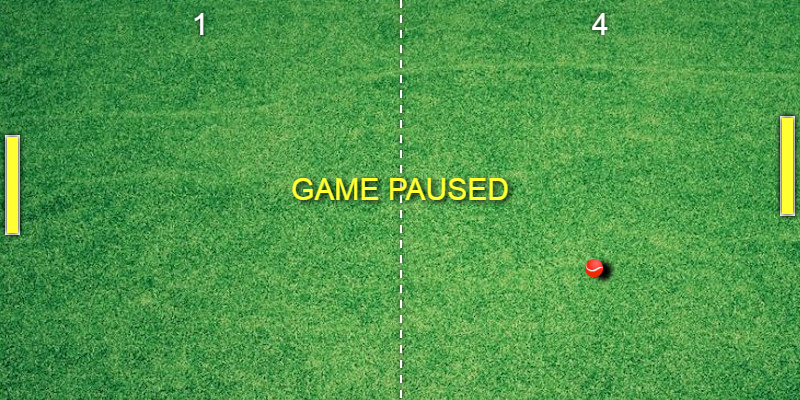
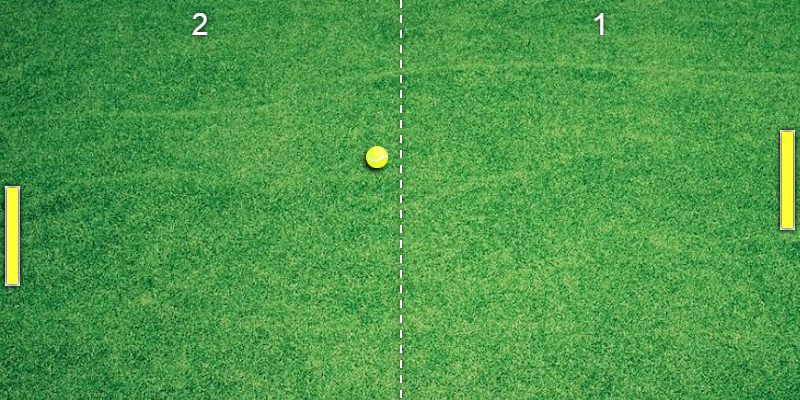
added retro mode

diff --git a/index.html b/index.html
@@ -1,20 +1,17 @@
 <!--
 Arcade Tennis 
-Version 1.3.0
+Version 1.3.1
 Created by Robert Sibek, Bad Mug Games
 
 TODOS:
     - redesign welcome screen. Show logo, add music, maybe some animation (demo play)
     - add difficulty selection
-    - add powerball when player gets score 3:0 which increase speed and temporary change color
-    - replace drawCircle witch the tennis ball image
     - redesign paddles
     - add lights
     - add option to play evening match
     - use custom font
     - let player choose the side
     - allow two player game   
-    - add applause SFX to win screen
     - add screenshot feature (save canvas to image)
     - find/create better texture for playground (more detailed)
 
@@ -24,6 +21,7 @@ KNOWN BUGS:
     
 version 1.0
     - basic game mechanic
+    - original graphic
 version 1.2
     - dynamic ball size 
     - dynamic ball shadow
@@ -38,11 +36,13 @@ varsion 1.3.0
     - pressing Q will quit to menu
     - pressing P will pause the game
     - receive both uppercase and lowercase keypress is now working
-version 1.3.1 - IN PROGRESS
+version 1.3.1 - CURRENT
     - settings menu for sfx & graphic options (performance scaling)
     - about menu shows game info
     - bad mug logo
     - applause sfx on win screen
+    - pressing R switches between modern and retro mode
+    
 -->
 
 <!DOCTYPE html>
@@ -56,7 +56,7 @@ version 1.3.1 - IN PROGRESS
 
 <script>
     // Constants and variables definitions
-    const VERSION = '1.3.0';
+    const VERSION = '1.3.1';
     const CANVAS_HEIGHT = 400;
     const CANVAS_NAME = 'gameCanvas';
     const CANVAS_WIDTH = 800;
@@ -78,6 +78,7 @@ version 1.3.1 - IN PROGRESS
     const CX = CANVAS_WIDTH / 2;
     const CY = CANVAS_HEIGHT / 2;
     const KEY_PAUSE = 112;
+    const KEY_RETRO = 114;
     const KEY_SPACE = 32;
     const KEY_QUIT = 113;
     const KEY_SCREENSHOT = 115;
@@ -130,8 +131,11 @@ version 1.3.1 - IN PROGRESS
     var sfxPaddleHit;
     var sfxWallReflect;
     var sfxMenuSelect;
+    var sfxApplause;
+    var applausePlaying = false;
     var showingWinningScreen = false;
     var menuSfxPlayed = false;
+    var retroMode = true;
 
     window.onload = function() {
         loadSounds();
@@ -161,7 +165,7 @@ version 1.3.1 - IN PROGRESS
         switch (evt.keyCode) {
             case KEY_PAUSE:
             case KEY_PAUSE - 32: // lowercased
-            case KEY_SPACE:         
+            case KEY_SPACE:
                 if (gamePaused) {
                     gamePaused = false;
                 } else {
@@ -175,6 +179,13 @@ version 1.3.1 - IN PROGRESS
                 computerHattrick = 0;
                 playerHattrick = 0;
                 break;
+            case KEY_RETRO:
+            case KEY_RETRO - 32:
+                if (retroMode) {
+                    retroMode = false;
+                } else {
+                    retroMode = true;
+                }
         }
     }
 
@@ -229,9 +240,11 @@ version 1.3.1 - IN PROGRESS
             if (showingWinningScreen) {
                 showWinScreen();
             } else {
-                ctx.drawImage(imgCourt, 0, 0);
+                if (!retroMode) {
+                    ctx.drawImage(imgCourt, 0, 0);
+                }
                 drawNet();
-                if (gfxBallImage) {
+                if (gfxBallImage && !retroMode) {
                     drawBallImage(ballX, ballY, ballRadius, powerBallActive ? imgBallBoosted : imgBall);
                 } else {
                     drawBall(ballX, ballY, ballRadius, Math.PI * 2, powerBallActive ? BALL_BOOST_COLOR : BALL_COLOR);
@@ -244,7 +257,7 @@ version 1.3.1 - IN PROGRESS
                     ctx.shadowColor = 'black';
                     ctx.shadowOffsetX = 3;
                     ctx.shadowOffsetY = 2;
-//                    ctx.fillText('GAME PAUSED', CX, CY);
+                    //                    ctx.fillText('GAME PAUSED', CX, CY);
                     ctx.shadowOffsetX = 0;
                     ctx.shadowOffsetY = 0;
                 }
@@ -278,12 +291,14 @@ version 1.3.1 - IN PROGRESS
                     computerScore++;
                     playerHattrick = 0;
                     computerHattrick++;
-                    if (powerBallActive) {
-                        powerBallActive = false;
-                        computerHattrick = 0;
-                    } else {
-                        if (computerHattrick == 3) {
-                            powerBallActive = true;
+                    if (!retroMode) {
+                        if (powerBallActive) {
+                            powerBallActive = false;
+                            computerHattrick = 0;
+                        } else {
+                            if (computerHattrick == 3) {
+                                powerBallActive = true;
+                            }
                         }
                     }
                     ballReset();
@@ -301,13 +316,14 @@ version 1.3.1 - IN PROGRESS
                     player1Score++;
                     playerHattrick++;
                     computerHattrick = 0;
-
-                    if (powerBallActive) {
-                        powerBallActive = false;
-                        playerHattrick = 0;
-                    } else {
-                        if (playerHattrick == 3) {
-                            powerBallActive = true;
+                    if (!retroMode) {
+                        if (powerBallActive) {
+                            powerBallActive = false;
+                            playerHattrick = 0;
+                        } else {
+                            if (playerHattrick == 3) {
+                                powerBallActive = true;
+                            }
                         }
                     }
                     ballReset();
@@ -316,7 +332,7 @@ version 1.3.1 - IN PROGRESS
             }
         }
 
-        if (gfxDynamicBallSize) {
+        if (gfxDynamicBallSize && !retroMode) {
             var delta = (BALL_RADIUS_MAX - BALL_RADIUS_MIN) / 1.25;
             var ballDelta = BALL_RADIUS_MAX - (Math.abs(ballX - CX) / 10 / delta);
             if (ballDelta < BALL_RADIUS_MIN) {
@@ -353,19 +369,24 @@ version 1.3.1 - IN PROGRESS
         }
         ballX = BALLX_START;
         ballY = BALLY_START;
-        if (powerBallActive) {
+        if (powerBallActive && !retroMode) {
             ballSpeedY = BALLSPEEDY_START * BALL_SPEED_BOOST;
             ballSpeedX *= BALL_SPEED_BOOST;
             sfxBoost.play();
         } else {
-            ballSpeedY = BALLSPEEDY_START;
-            ballSpeedX = BALLSPEEDX_START * -1;
+            ballSpeedY = retroMode ? BALLSPEEDY_START * 0.5 : BALLSPEEDY_START ;
+            ballSpeedX = retroMode ? BALLSPEEDX_START * 0.5 : BALLSPEEDX_START * -1;
         }
 
     } // ballReset()
 
     // Show winning screen with scores
     function showWinScreen() {
+        if (!applausePlaying) {
+            sfxApplause.play();
+            applausePlaying = true;
+        }
+
         // Draw text shadow first
         //        ctx.shadowColor = 'gray';
         ctx.shadowBlur = 5;
@@ -415,6 +436,7 @@ version 1.3.1 - IN PROGRESS
         sfxWallReflect = new Audio(PATH_SFX + "ballWallReflect.wav");
         sfxInsertCoin = new Audio(PATH_SFX + "insertCoin.wav");
         sfxBoost = new Audio(PATH_SFX + "ballSpeedBoost.wav");
+        sfxApplause = new Audio(PATH_SFX + "applause.mp3");
         //    sfxMenuSelect = new Audio(PATH_SFX + "menuSelect.wav");
     } // loadSounds()
 
@@ -432,6 +454,7 @@ version 1.3.1 - IN PROGRESS
 
     // Shows Start screen with menu (later)
     function showStartScreen() {
+        applausePlaying = false;
         // TODO fix promise exception before enable        
         //    sfxIntroMusic.play()
         ctx.drawImage(imgLogo, CX - imgLogo.width / 2, CY - imgLogo.height / 2);
@@ -495,7 +518,7 @@ version 1.3.1 - IN PROGRESS
 
     // Draw ball as colored circle
     function drawBall(x, y, r, a, color) {
-        if (gfxShadowsEnabled) {
+        if (gfxShadowsEnabled && !retroMode) {
             ctx.shadowColor = BALL_SHADOW_COLOR;
             ctx.shadowBlur = 5;
             ctx.shadowOffsetY = 3;
@@ -504,7 +527,7 @@ version 1.3.1 - IN PROGRESS
         //    ctx.drawImage(imgBall, x, y, r*1.55, r*1.55);
         ctx.fillStyle = color;
         ctx.beginPath();
-        ctx.arc(x, y, r, 0, a, true);
+        ctx.arc(x, y, (retroMode) ? BALL_RADIUS_STATIC : r, 0, a, true);
         ctx.fill();
         if (gfxShadowsEnabled) {
             ctx.shadowOffsetY = 0;
@@ -529,8 +552,13 @@ version 1.3.1 - IN PROGRESS
 
     // Draw paddle
     function drawPaddle(x, y, width, height, color) {
-        drawRect(x, y, width, height, color);
-        drawRect(x + 2, y + 2, width - 4, height - 4, PADDLE_COLOR);
+        if (retroMode) {
+            drawRect(x, y, width, height, 'white');
+        } else {
+            drawRect(x, y, width, height, color);
+            drawRect(x + 2, y + 2, width - 4, height - 4, PADDLE_COLOR);
+        }
+
     } // drawPaddle()
 
     // Draw playground net
